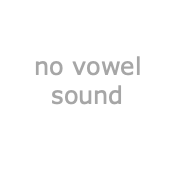
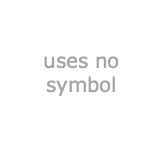
committing changes made after giving a preview to UC teacher and UI/UX advisor

Changed region(s): [[0.1829, 0.303, 0.8232, 0.6061]]

diff --git a/src/screens/WordFormation/index.tsx b/src/screens/WordFormation/index.tsx
@@ -20,7 +20,7 @@ import {
   StatusBar,
   Platform
 } from 'react-native';
-import { Button, Image } from 'react-native-elements';
+import { Button, Image, colors } from 'react-native-elements';
 import Icon from 'react-native-vector-icons/Ionicons';
 import { EventRegister } from 'react-native-event-listeners'
 import { useNavigation } from "@react-navigation/native";
@@ -108,7 +108,7 @@ const WordFormation = () => {
         backgroundColor: "#2f85a4",
         alignItems: 'center',
         justifyContent: 'space-around',
-        paddingBottom: 10
+        paddingBottom: 0
       }}>
         {/*
         <LinearGradient
@@ -117,44 +117,31 @@ const WordFormation = () => {
         >
         */}
         <View></View>
-        <Text style={{ fontSize: 20, textAlign: 'center', marginTop: 4}}> Forming words with or without vowels.</Text>
+        <Text style={{ fontSize: 20, textAlign: 'center', marginTop: 4}}> Making words with vowels</Text>
         <Text></Text>
         <FlatList
           data={soundModifiers}
           style={styles.gridView}
-          renderItem={({ item }) => (
+          renderItem={ ({ item }) => (
             <View style={[styles.itemContainer]}>
               <View style={[styles.button]}>
-              <View style={{justifyContent: 'center'}}>
-              <TouchableOpacity onPress={() => onWordPress(item)}>
-              {
-                <Text style={{fontSize:18, textAlign: 'center', marginBottom: 0}}> 
-                  {item.pname}
+                <TouchableOpacity onPress={() => onWordPress(item)}>
                   {
-                    item.id > 1?  // this check is added to handle no icon for mukta case
-                      <Image onPress={() => onWordPress(item)} style={{width: 40, height: 40}} source={SOUNDMODIFIERS[item.name]}/>
-                      : <Image></Image>
+                    <Text style={{ fontSize: 20, textAlign: 'center', marginBottom: 0 }}>
+                      {item.pname} {item.symbol}
+                    </Text>
                   }
-                </Text> 
-              }
-              </TouchableOpacity>
-              </View>
-              </View>
+                </TouchableOpacity>
+              </View>            
               {/*
               <Button
                 type="outline"
                 titleStyle={{ color: colors.grey5 }}
                 buttonStyle={[{ borderColor: colors.grey0 }, { width: '100%' }]}
                 onPress={() => onWordPress(item)}
-
-                icon={
-                  isIos ?
-                    <CustomIcon style={{ marginRight: 40, marginLeft: -80 }} name={item.name} size={32}></CustomIcon>
-                    : <AndroidCustomIcon name={item.name} size={32}></AndroidCustomIcon>
-                }
-                title={item.name}
+                title={item.pname}{item.symbol}
               />
-              */}
+          */}
             </View>
           )}
         />
@@ -167,13 +154,13 @@ const WordFormation = () => {
 const styles = StyleSheet.create({
   MainContainer: {
     flex: 1,
-    paddingTop: 10,
+    paddingTop: 5,
     alignItems: 'center',
     justifyContent: 'center',
     padding: 20
   },
   gridView: {
-    marginTop: 10,
+    marginTop: 0,
     flex: 1,
   },
   linearGradient: {
@@ -184,16 +171,17 @@ const styles = StyleSheet.create({
   itemContainer: {
     justifyContent: 'flex-end',
     borderRadius: 5,
-    padding: 10,
-    height: 68,
+    padding: 5,
+    height: 62,
   },
   button :{
-    borderColor: 'black',
+    borderColor: '#A8A8A8',
     borderStyle: 'solid',
     borderWidth: 1,
-    height: 50,
-    width: 240,
-    padding: 6,
+    borderRadius: 10,
+    height: 40,
+    width: 200,
+    padding: 4,
     margin: 5
   },
   buttonContainer: {

diff --git a/src/utils/soundModifiers.js b/src/utils/soundModifiers.js
@@ -1,14 +1,14 @@
 export const soundModifiersData = [
-    { id:1,  name:'sm1',  pname:'no vowel: mukta', audioId:'v01', phrase:' as in uh', sound:'has no vowel sound '},
-    { id:2,  name:'sm2',  pname:'vowel: kanna', audioId:'v02', phrase:' as in art', sound:'long "aa" sound '},
-    { id:3,  name:'sm3',  pname:'vowel: sihari', audioId:'v03', phrase:' as in if', sound:'short "i" sound'},
-    { id:4,  name:'sm4',  pname:'vowel: bihari', audioId:'v04', phrase:' as in eve', sound:'long "e" sound'},
-    { id:5,  name:'sm5',  pname:'vowel: aunkarr', audioId:'v05', phrase:' as in Uzbek', sound:'short "u" sound'},
-    { id:6,  name:'sm6',  pname:'vowel: dulainkarr', audioId:'v06', phrase:' as in oops', sound:'long "oo" sound '},
-    { id:7,  name:'sm7',  pname:'vowel: lanvan', audioId:'v07', phrase:' as in ate', sound:' "a" shound '},
-    { id:8,  name:'sm8',  pname:'vowel: dulanvan', audioId:'v08', phrase:' as in app', sound:'"ai" sound '},
-    { id:9,  name:'sm9',  pname:'vowel: horra', audioId:'v09', phrase:' as in oak', sound:'"o" sound '},
-    { id:10, name:'sm10', pname:'vowel: kanaurra', audioId:'v10', phrase:' as in off', sound:'"au" sound'},
+    { id:1,  name:'sm1',  pname:'Mukta', symbol:'', audioId:'v01', phrase:'as in uh', sound:'subtle "a" sound '},
+    { id:2,  name:'sm2',  pname:'Kanna', symbol:' ਾ', audioId:'v02', phrase:'as in art', sound:'long "a" sound '},
+    { id:3,  name:'sm3',  pname:'Sihari', symbol:' ਿ', audioId:'v03', phrase:'as in if', sound:'short "i" sound '},
+    { id:4,  name:'sm4',  pname:'Bihari', symbol:' ੀ', audioId:'v04', phrase:'as in eve', sound:'long "e" sound '},
+    { id:5,  name:'sm5',  pname:'Aunkar', symbol:' ੁ', audioId:'v05', phrase:'as in Uzbek', sound:'short "u" sound '},
+    { id:6,  name:'sm6',  pname:'Dulainkar', symbol:' ੂ', audioId:'v06', phrase:'as in oops', sound:'"oo" sound '},
+    { id:7,  name:'sm7',  pname:'Lanvan', symbol:' ੇ', audioId:'v07', phrase:'as in ate', sound:'"a" sound '},
+    { id:8,  name:'sm8',  pname:'Dulanvan', symbol:' ੈ', audioId:'v08', phrase:'as in app', sound:'"ai" sound '},
+    { id:9,  name:'sm9',  pname:'Hora', symbol:' ੋ', audioId:'v09', phrase:'as in oak', sound:'"o" sound '},
+    { id:10, name:'sm10', pname:'Kanaura', symbol:' ੌ', audioId:'v10', phrase:'as in off', sound:'"au" sound '},
     //{ id:11, name:'adhak', pname:'adhak', audioId:'', phrase:'', sound:''}, these are placeholders for future use
     //{ id:12, name:'bindi', pname:'adhak', audioId:'', phrase:'', sound:''},
     //{ id:13, name:'tippi', pname:'adhak', audioId:'', phrase:'', sound:''},

diff --git a/src/screens/Home/index.tsx b/src/screens/Home/index.tsx
@@ -53,13 +53,13 @@ const Home = () => {
 
   const item =
   {
-    title: 'Welcome to UC Punjabi',
+    title: 'Welcome to UC ਪੰਜਾਬੀ',
     text1: 'Gurmukhi Script',
     text2: 'Word Formation',
     text3: 'Numbers',
     text4: 'Modules Vocabulary',
     text5: 'Settings',
-    text6: 'A mobile companion for Punjabi language learners.',
+    text6: 'A mobile companion for the First Year of Punjabi.',
     text7: 'UNIVERSITY OF CALIFORNIA',
     backgroundColor: '#2f85a4',
   }
@@ -139,7 +139,7 @@ const styles = StyleSheet.create({
     textAlign: 'center',
   },
   buttonText: {
-    width: 300,
+    width: 280,
     color: 'black',
     fontWeight: '400',
     textAlign: 'center',
@@ -151,8 +151,9 @@ const styles = StyleSheet.create({
     textAlign: 'center',
   },
   buttonOutline: {
-    borderColor: 'black',
-    borderWidth: 1
+    borderColor: '#A8A8A8',
+    borderWidth: 1,
+    borderRadius: 10,
   },
   slide: {
     flex: 1,
@@ -170,7 +171,7 @@ const styles = StyleSheet.create({
     textAlign: 'center',
   },
   subtitle: {
-    fontSize: 24,
+    fontSize: 20,
     color: 'black',
     textAlign: 'center',
   },

diff --git a/src/screens/Gurmukhi/index.tsx b/src/screens/Gurmukhi/index.tsx
@@ -31,6 +31,7 @@ import database from "utils/database";
 import LinearGradient from 'react-native-linear-gradient';
 import { IMAGESSOLID, IMAGESOUTLINE } from 'utils/imagesRequiers';
 
+const text1 = "Start with the first letter and open the rest."
 var isIos = false;
 let headerMarginTop = 0;
 let gridViewTop = 0;
@@ -120,7 +121,7 @@ const Gurmukhi = () => {
         >
 
           <View></View>
-          <Text style={styles.hint}>Start with the first letter and unlock the rest.</Text>
+          <Text style={styles.hint}>{text1}</Text>
           <FlatGrid
             itemDimension={60}
             data={letters}
@@ -159,7 +160,7 @@ const styles = StyleSheet.create({
     justifyContent: 'flex-end',
     borderRadius: 5,
     padding: 10,
-    height: 68,
+    height: 62,
   },
   linearGradient: {
     alignItems: 'center',

diff --git a/src/screens/Gurmukhi/Gurmukhi2nd/index.tsx b/src/screens/Gurmukhi/Gurmukhi2nd/index.tsx
@@ -29,7 +29,7 @@ import { Player } from '@react-native-community/audio-toolkit';
 import LinearGradient from 'react-native-linear-gradient';
 import { IMAGESSOLID, IMAGESOUTLINE } from 'utils/imagesRequiers';
 
-
+const text1 = "Tap audio icon to open the next letter."
 var isIos = false;
 let topBarBackButton = 30;
 if (Platform.OS == 'ios') {
@@ -175,7 +175,7 @@ const Gurmukhi2ndScreen = ({ route }) => {
             </TouchableOpacity>
           </Card>
           <Text />
-          <Text style={styles.actionText}>Press the speaker icon to unlock the next letter.</Text>
+          <Text style={styles.actionText}>{text1}</Text>
 
           <FlatGrid
             itemDimension={60}

diff --git a/src/screens/WordFormation/Details/index.tsx b/src/screens/WordFormation/Details/index.tsx
@@ -49,6 +49,8 @@ import{SOUNDMODIFIERS} from 'utils/smImagesRequires';
 
 declare const global: { HermesInternal: null | {} };
 
+const text1 = "Tap audio icon to listen."
+
 var isIos = false;
 let headerMarginTop = 0;
 let gridViewTop = 0;
@@ -194,7 +196,7 @@ const WordFormationDetails = ({ route }) => {
             />
           </TouchableOpacity>
         </Card>
-        <Text style={styles.actionText}>Press the speaker icon to listen to the audio.</Text>
+        <Text style={styles.actionText}>{text1}</Text>
 
         {/*</LinearGradient> */}
       </View>
